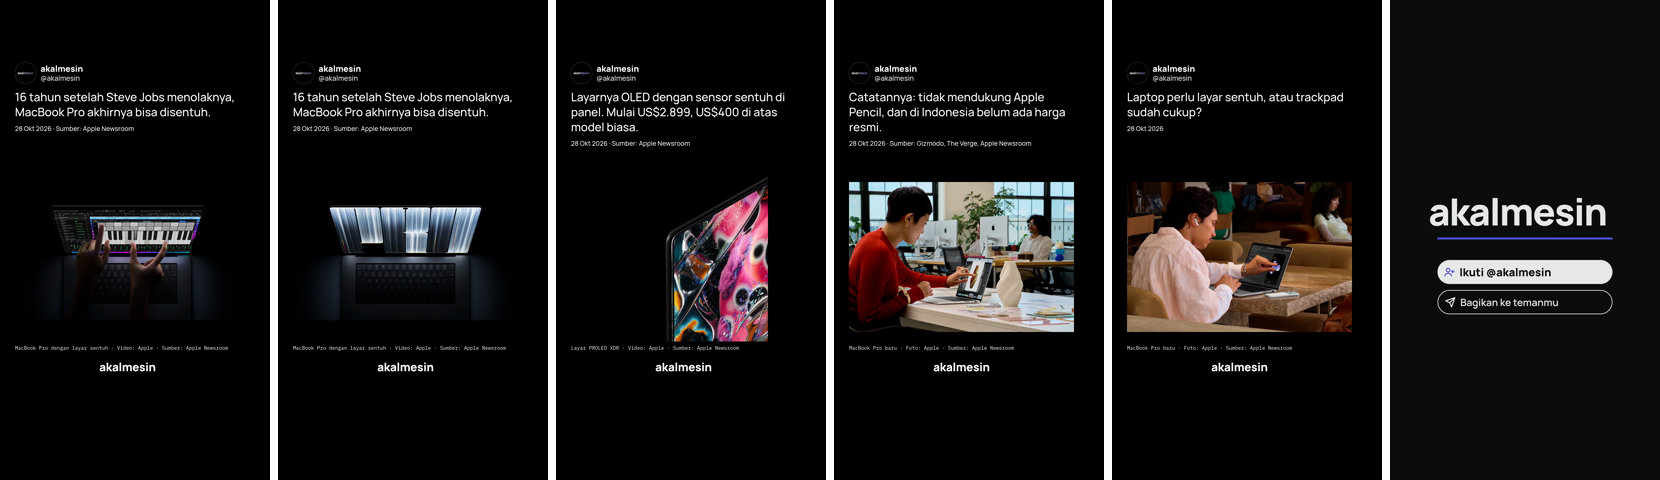
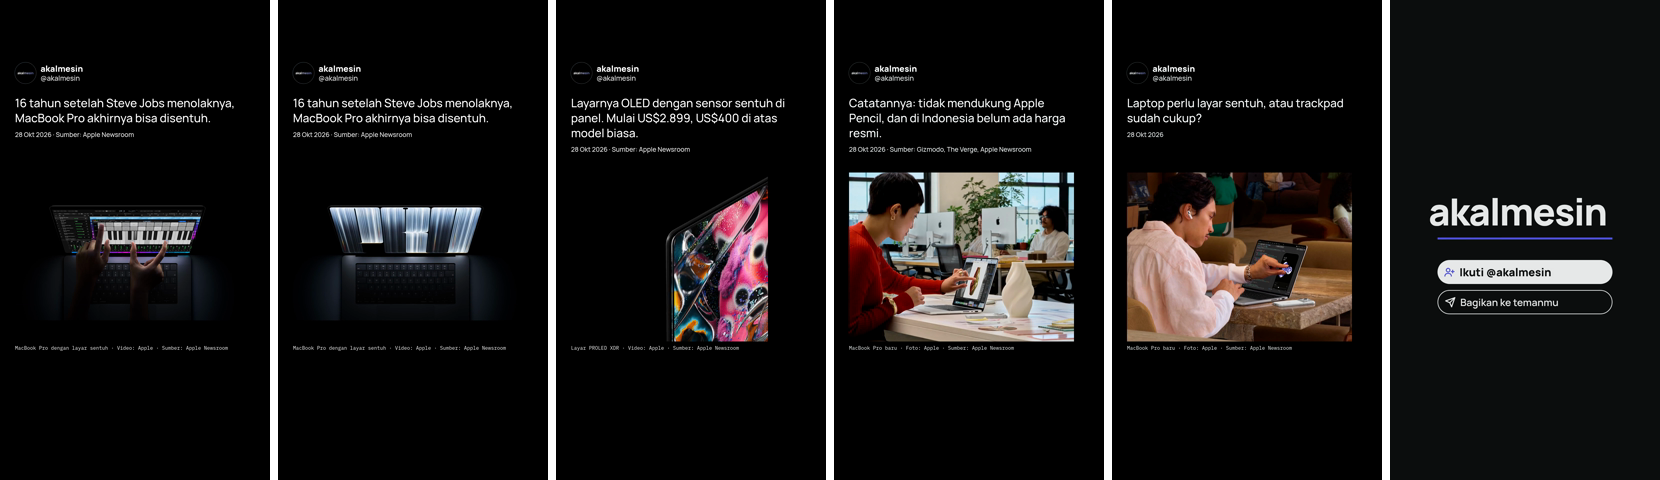
Card reel t90u: no bottom mark, airier card gap, eased Ken Burns on Apple stills (deviation recorded), checks

diff --git a/content/posts/2026-10-29-apple-macbook-pro-layar-sentuh/reel/PROVENANCE.md b/content/posts/2026-10-29-apple-macbook-pro-layar-sentuh/reel/PROVENANCE.md
@@ -4,12 +4,14 @@ All media are Apple Newsroom press media of the new MacBook Pro with PROLED XDR 
 
 - Apple's terms (LEGAL_NOTICE.rtf in each press zip; copy at assets/APPLE_LEGAL_NOTICE.rtf): personal or editorial and non-commercial use only; media may not be altered or modified without Apple's express permission. No permission has been obtained from Apple.
 - Used under owner decision t89u (29 Oct 2026), with the known risk: Apple or Instagram may take the reel down, or the account may receive a copyright strike.
-- Shown unaltered: no filter, no colour change, no crop, zoom or pan. Each file is scaled to fit inside the 900×676 clip box (scale = min(900/w, 676/h)) with black letterbox; videos are trimmed to an excerpt. Credit under every clip.
+- Videos are shown unaltered: no filter, no colour change, no crop, zoom or pan. Each video is scaled to fit inside the 900×676 clip box (scale = min(900/w, 676/h)) with black letterbox and trimmed to an excerpt.
+- **Deviation (stills, owner decision t90u, 29 Oct 2026):** the two still photos are cropped to fill the 4:3 box and get a slow Ken Burns move (eased zoom 100%→108% plus a slight pan). This crops and zooms Apple's photos, which departs from Apple's no-alteration term; done by owner decision t89u/t90u under the same takedown/strike risk. No colour change.
+- Credit under every clip.
 - Music: tech-upbeat (High Technologic Beat Explosion, Loyalty Freak Music, CC0 1.0; see scripts/reel/music/PROVENANCE.md).
 
 | Key | File | SHA-256 | Source URL | Credit on screen | Use |
 |---|---|---|---|---|---|
 | touch | reel/media/apple-touch-261028.mp4 | e8f4a54b7ed1b08e775645af42c91b19073e87a804c47e393bcf932590aae681 | https://www.apple.com/newsroom/videos/2026/autoplay/10/macbook-pro-with-proled-xdr-display-touch/large_2x.mp4 | Video: Apple · Sumber: Apple Newsroom | 0.0–5.0 s, fit 2880×1620 → 900×506 |
 | oled | reel/media/apple-oled-technology-261028.mp4 | 60751731522e9e5cc6223ccd87412cb6184d2568eab451aa4a7e607413724b2f | https://www.apple.com/newsroom/videos/2026/autoplay/10/macbook-pro-with-proled-xdr-display-technology/large_2x.mp4 | Video: Apple · Sumber: Apple Newsroom | 0.5–6.5 s, fit 1920×1920 → 676×676 |
-| office | assets/originals/apple-lifestyle-office.jpg | b7e7850913072e75ba698bc7288032e43f15f28b4a0de5e45a9e2f2619a2ab29 | https://www.apple.com/newsroom/images/2026/10/apple-unveils-groundbreaking-macbook-pro-with-proled-xdr-display/article/Apple-MacBook-Pro-with-PROLED-XDR-Display-lifestyle-office-261028.zip | Foto: Apple · Sumber: Apple Newsroom | still, static, fit 3840×2560 → 900×600 |
-| remote | assets/originals/apple-lifestyle-remote-work.jpg | 23d1dc8e5e6040ab8d5e790a27a7b4321465aad223d55a663e1b618e563d51e8 | https://www.apple.com/newsroom/images/2026/10/apple-unveils-groundbreaking-macbook-pro-with-proled-xdr-display/article/Apple-MacBook-Pro-with-PROLED-XDR-Display-lifestyle-remote-work-261028.zip | Foto: Apple · Sumber: Apple Newsroom | still, static, fit 3840×2560 → 900×600 |
+| office | assets/originals/apple-lifestyle-office.jpg | b7e7850913072e75ba698bc7288032e43f15f28b4a0de5e45a9e2f2619a2ab29 | https://www.apple.com/newsroom/images/2026/10/apple-unveils-groundbreaking-macbook-pro-with-proled-xdr-display/article/Apple-MacBook-Pro-with-PROLED-XDR-Display-lifestyle-office-261028.zip | Foto: Apple · Sumber: Apple Newsroom | still, cover-fill 4:3 + Ken Burns 100%→108% (t90u deviation) |
+| remote | assets/originals/apple-lifestyle-remote-work.jpg | 23d1dc8e5e6040ab8d5e790a27a7b4321465aad223d55a663e1b618e563d51e8 | https://www.apple.com/newsroom/images/2026/10/apple-unveils-groundbreaking-macbook-pro-with-proled-xdr-display/article/Apple-MacBook-Pro-with-PROLED-XDR-Display-lifestyle-remote-work-261028.zip | Foto: Apple · Sumber: Apple Newsroom | still, cover-fill 4:3 + Ken Burns 100%→108% (t90u deviation) |

diff --git a/content/posts/2026-10-29-apple-macbook-pro-layar-sentuh/edits.log.md b/content/posts/2026-10-29-apple-macbook-pro-layar-sentuh/edits.log.md
@@ -17,3 +17,7 @@ Design revision 232075b0f035 · 5 PNGs · blue ink from originals (crop/pad in p
 ## 2026-10-29 15:39 WIB — design build
 
 Design revision 39212ce27828 · 5 PNGs · blue ink from originals (crop/pad in post.json).
+
+## 2026-10-29 15:57 WIB — design build
+
+Design revision 39212ce27828 · 5 PNGs · blue ink from originals (crop/pad in post.json).
